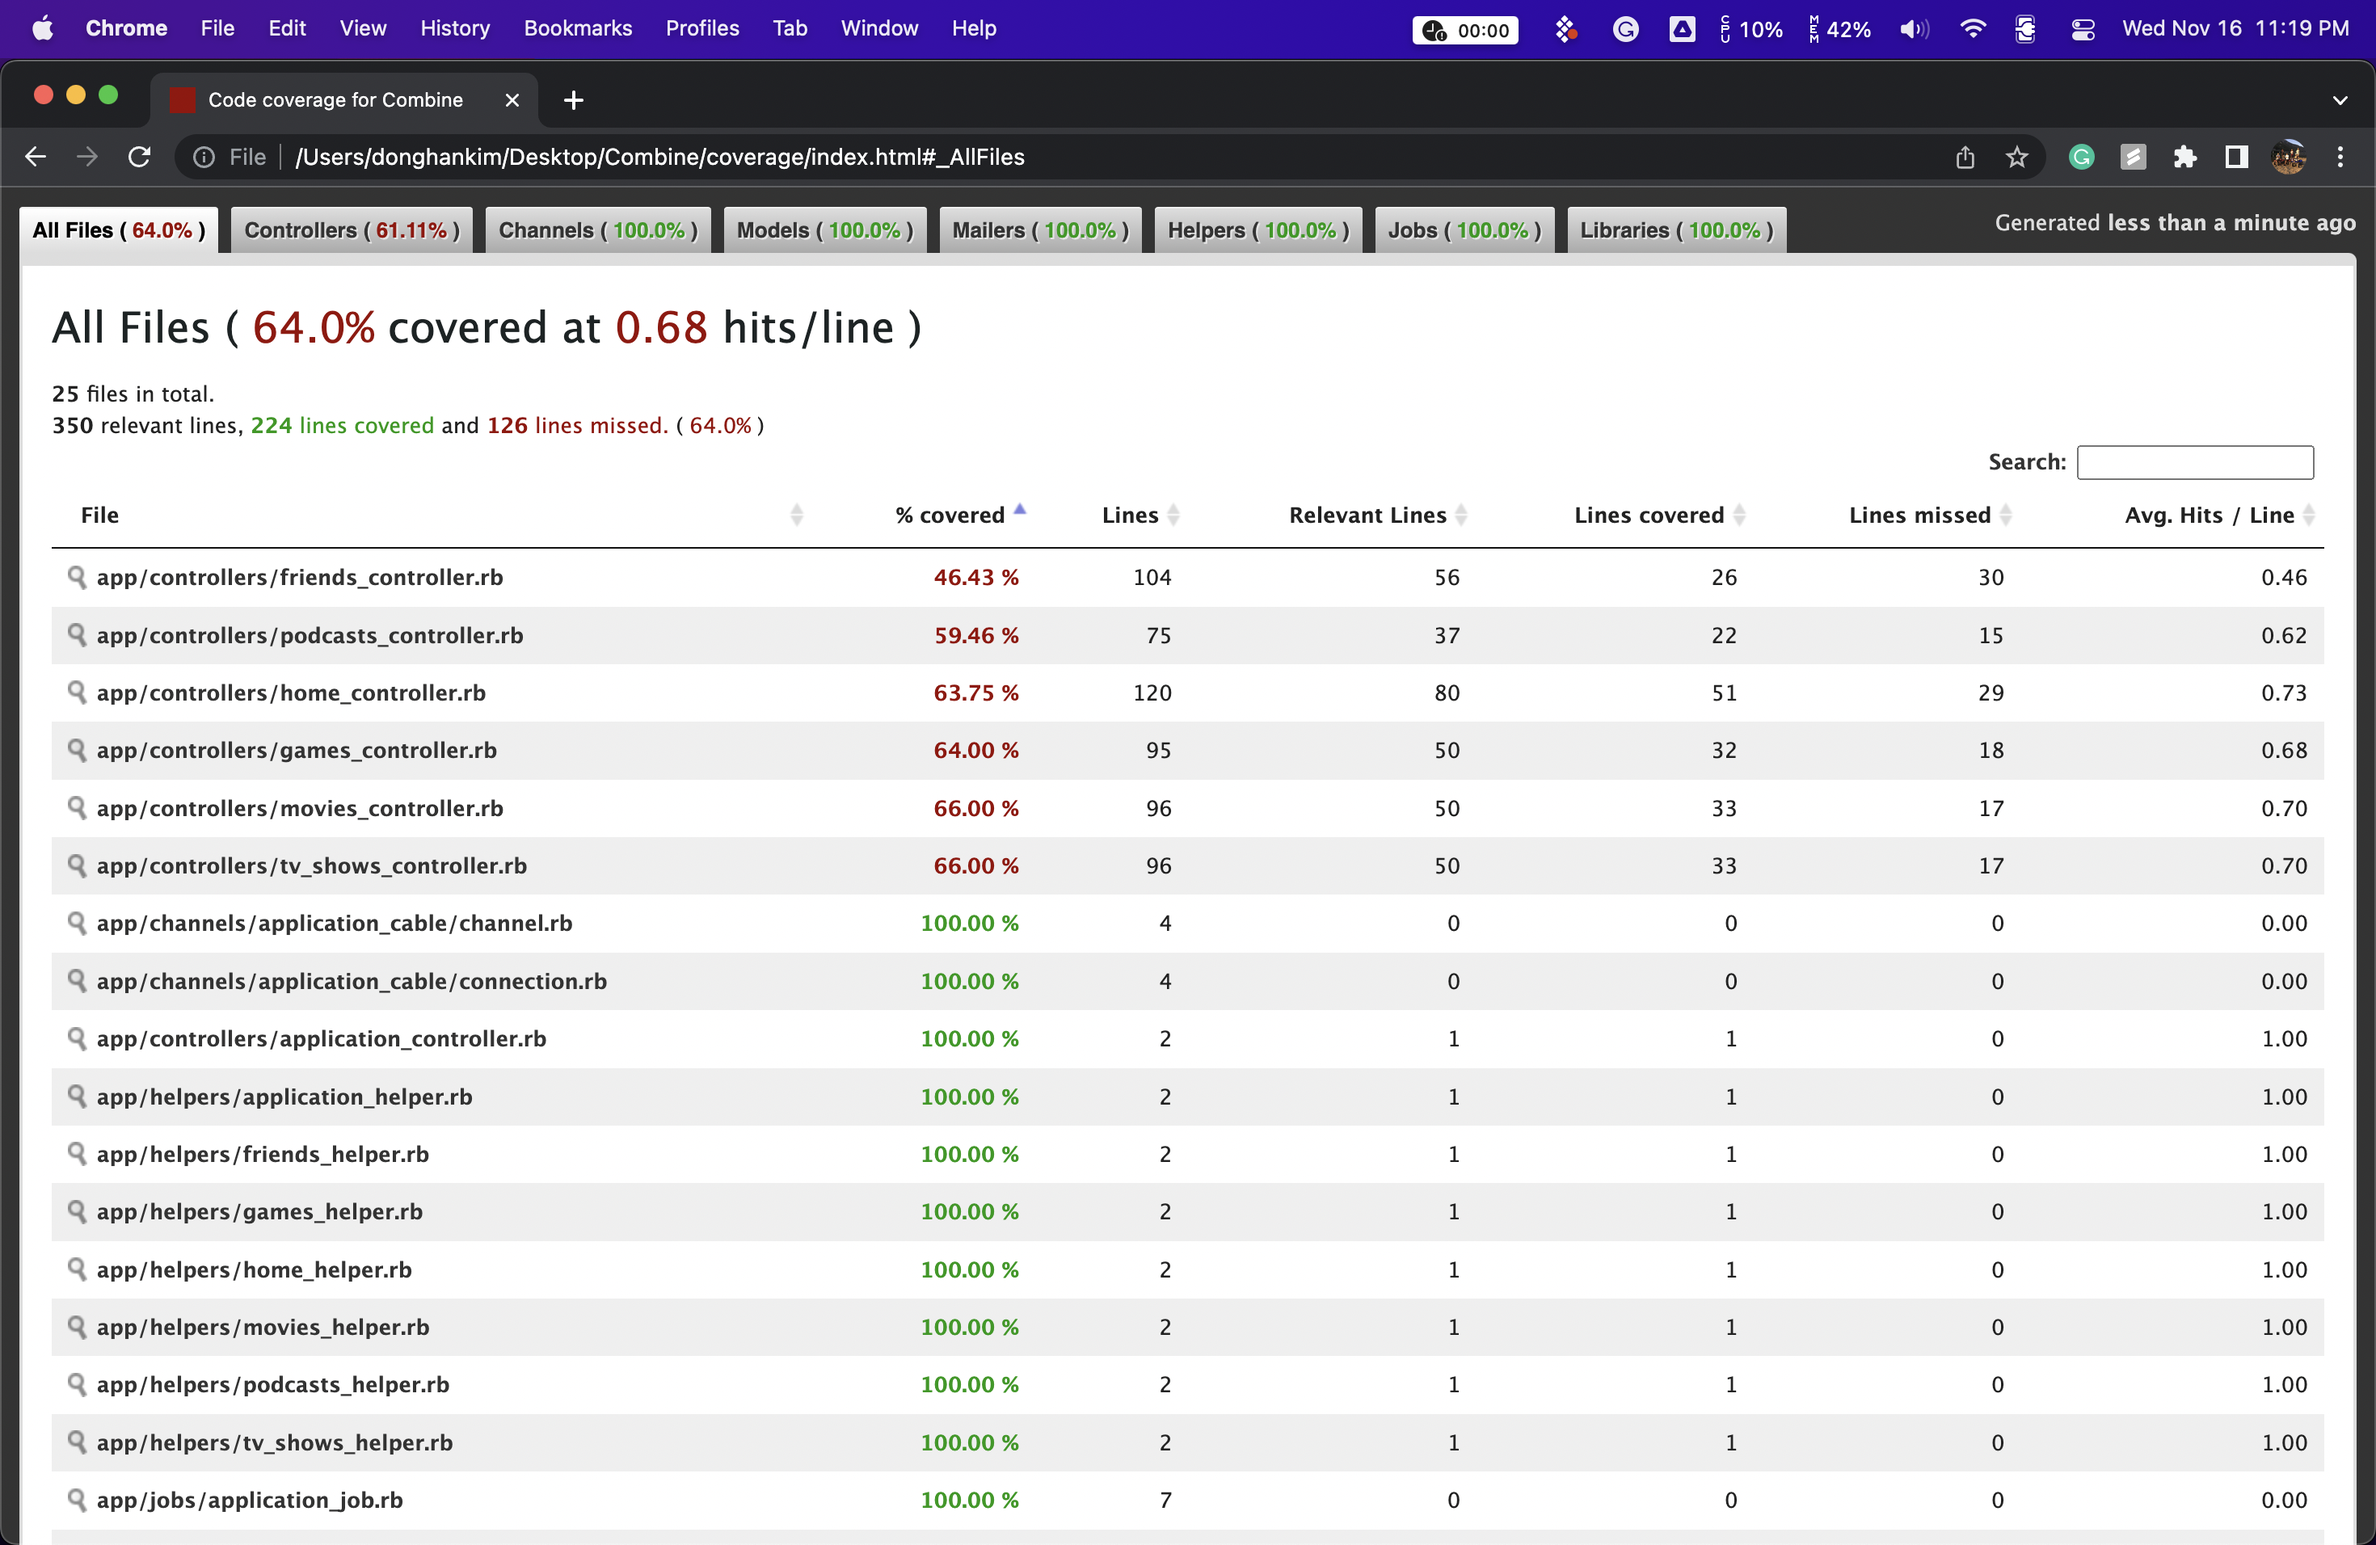
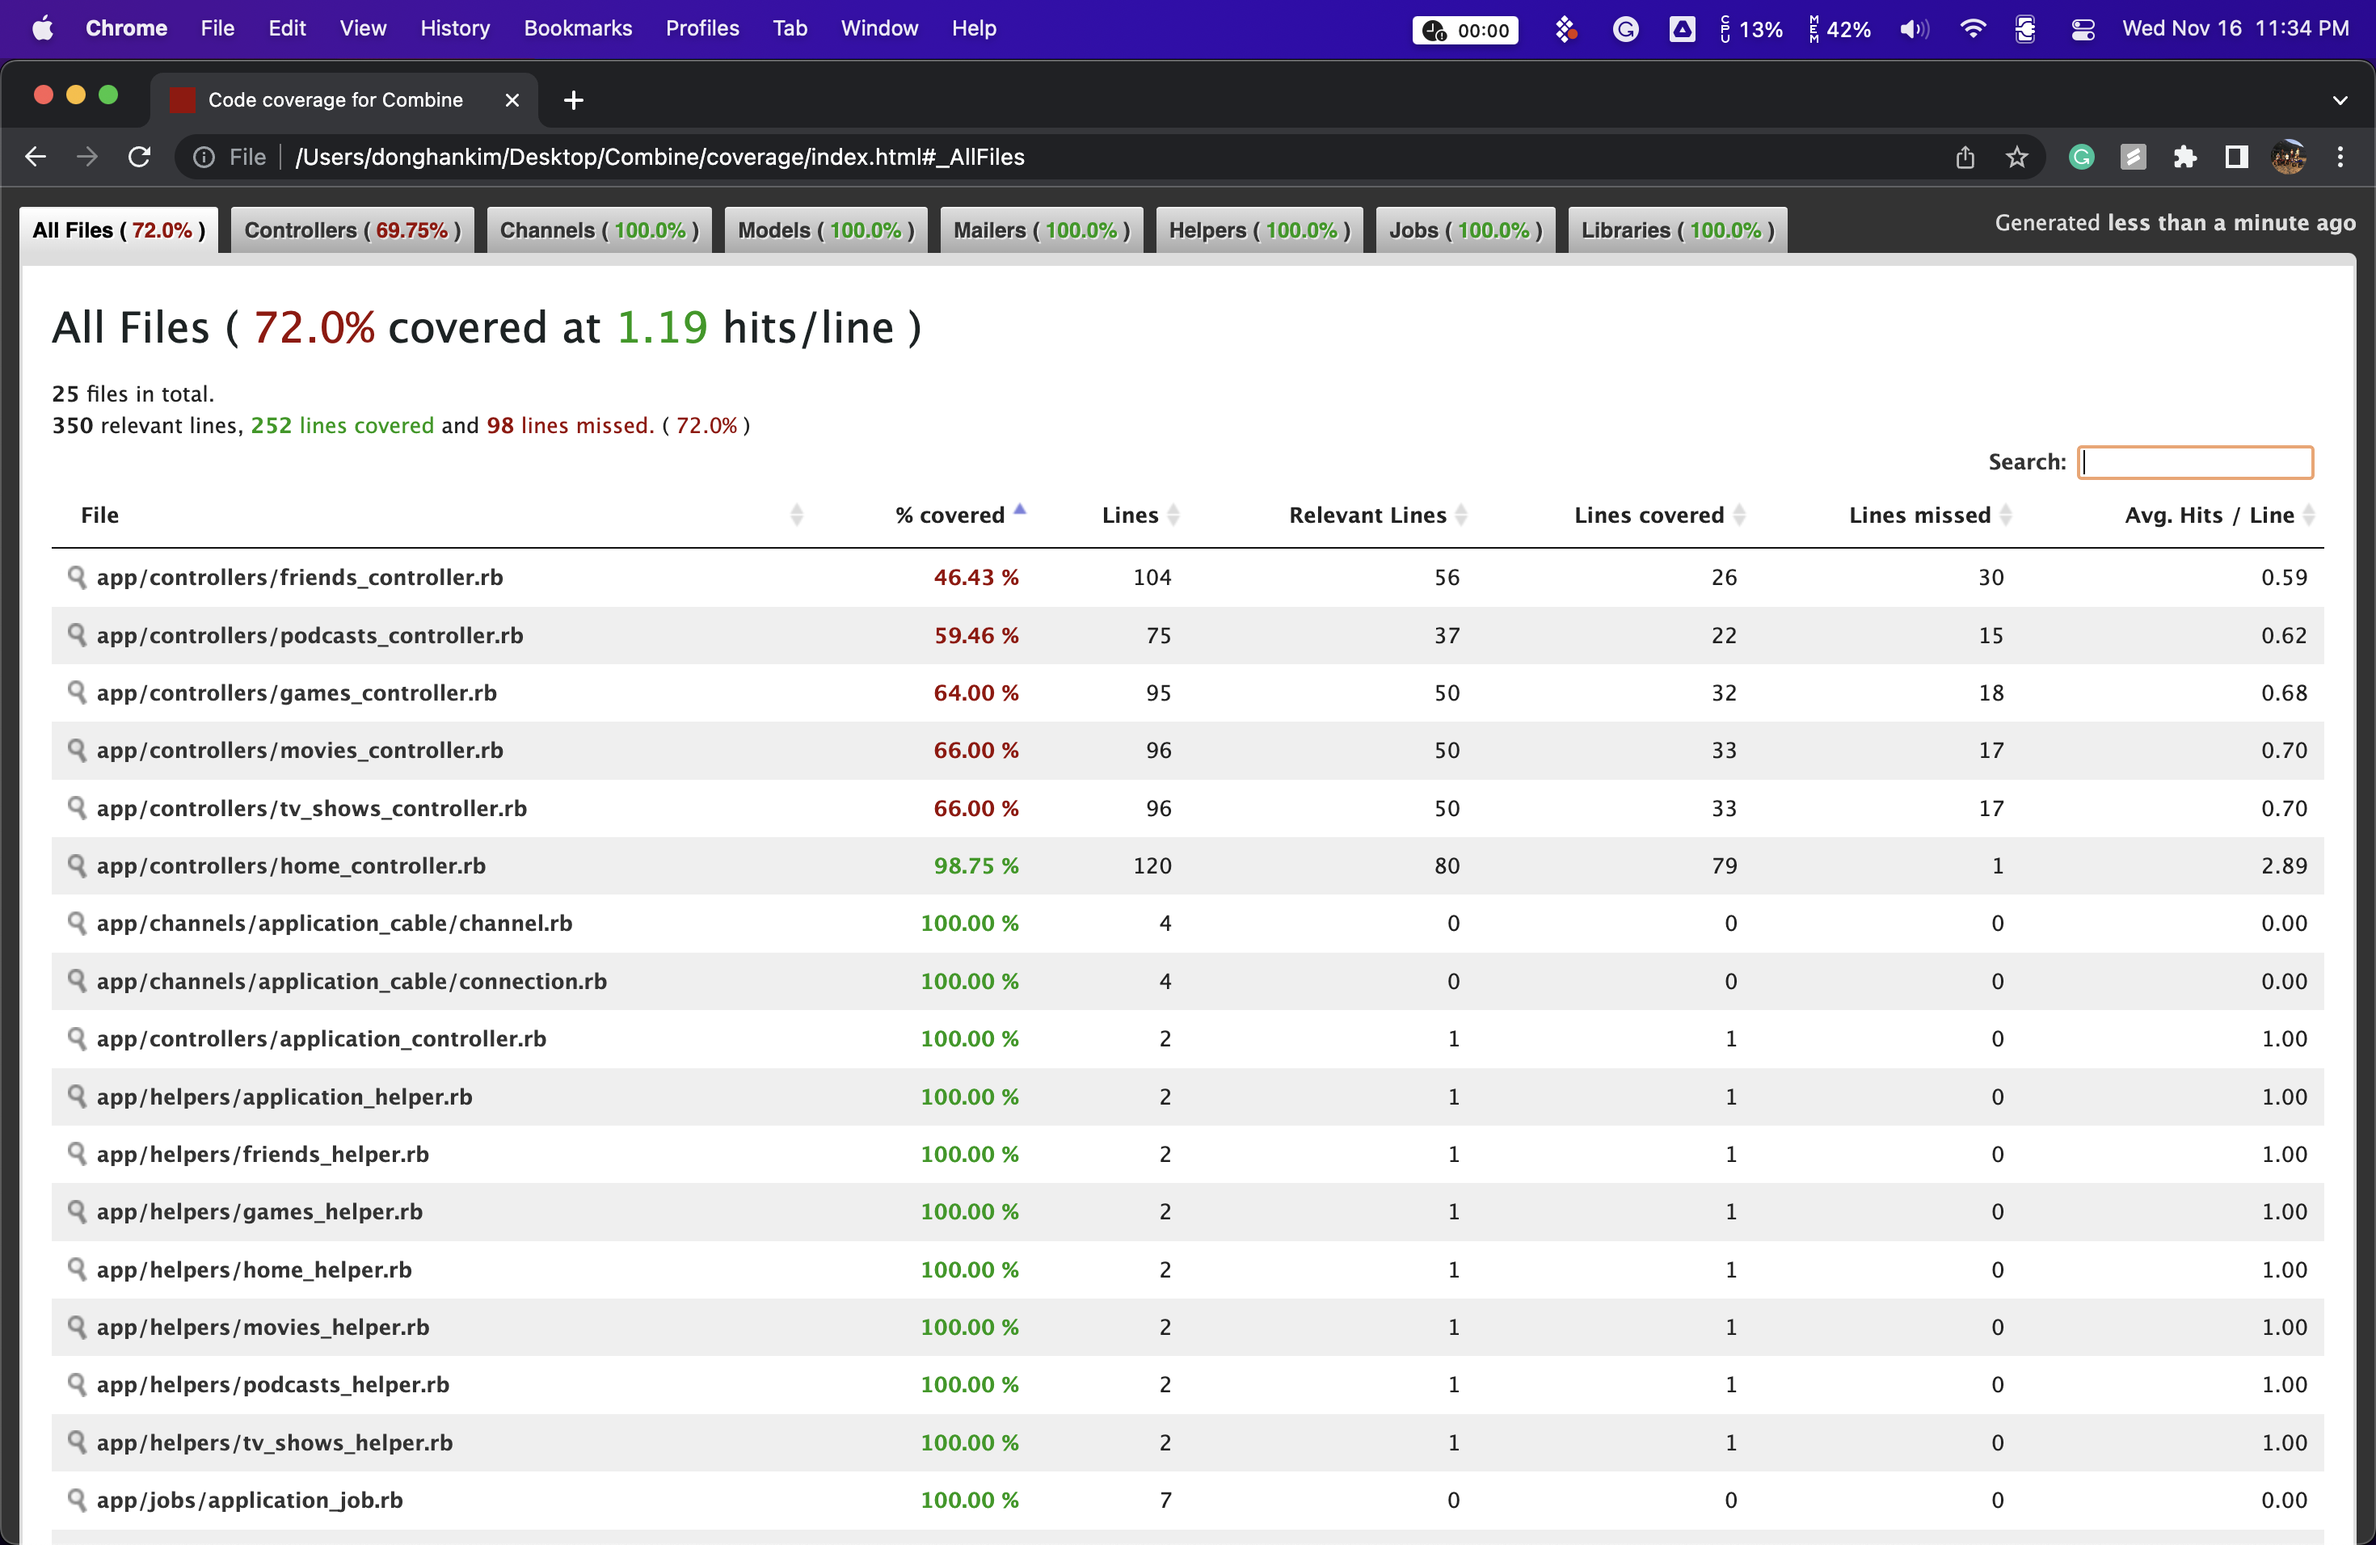
updated readme

diff --git a/README.md b/README.md
@@ -7,7 +7,7 @@
 ## Message From The Team
 We would like to inform the TA's that one of our group member did not communicate his decision to leave our team. As a result, we were a little blindsided by the amount of work we had to do for this iteration...
 
-For proj-iter1, we were deducted points for failing cucumber tests when the tests were working well on our local machines. For that reason we have uploaded image proof to showcase our cucumber and rspec test results. If your results don't match ours, please give ur a chance to explain.
+For proj-iter1, we were deducted points for failing cucumber tests when the tests were working well on our local machines. For that reason we have uploaded image proof to showcase our cucumber and rspec test results. If your results don't match ours, please give us a chance to explain.
 Thank you for your assistance.
 
 ## Software Requirements
@@ -74,15 +74,13 @@ rspec
 If you get an error from running bundle install, try using **sudo bundle install**. This is not recommended, but will solve any permission errors you encounter.
 
 ## Cucumber Test Results
-<img src="media/cucumber_res.gif" width="50" height="50" />
-<img src="media/cucumber_coverage.png" width="50" height="50" />
+<img src="media/cucumber_res.gif" width="425"/><img src="media/cucumber_coverage.png" width="425"/>
 
 **92% coverage**
 
 ## Rspec Test Results
-<img src="media/rspec_res.png" width="50" height="50" />
-<img src="media/rspec_coverage.png" width="50" height="50" />
+<img src="media/rspec_res.png" width="425"/><img src="media/rspec_coverage.png" width="425"/>
 
-**64% coverage**
+**72% coverage**
 
 
